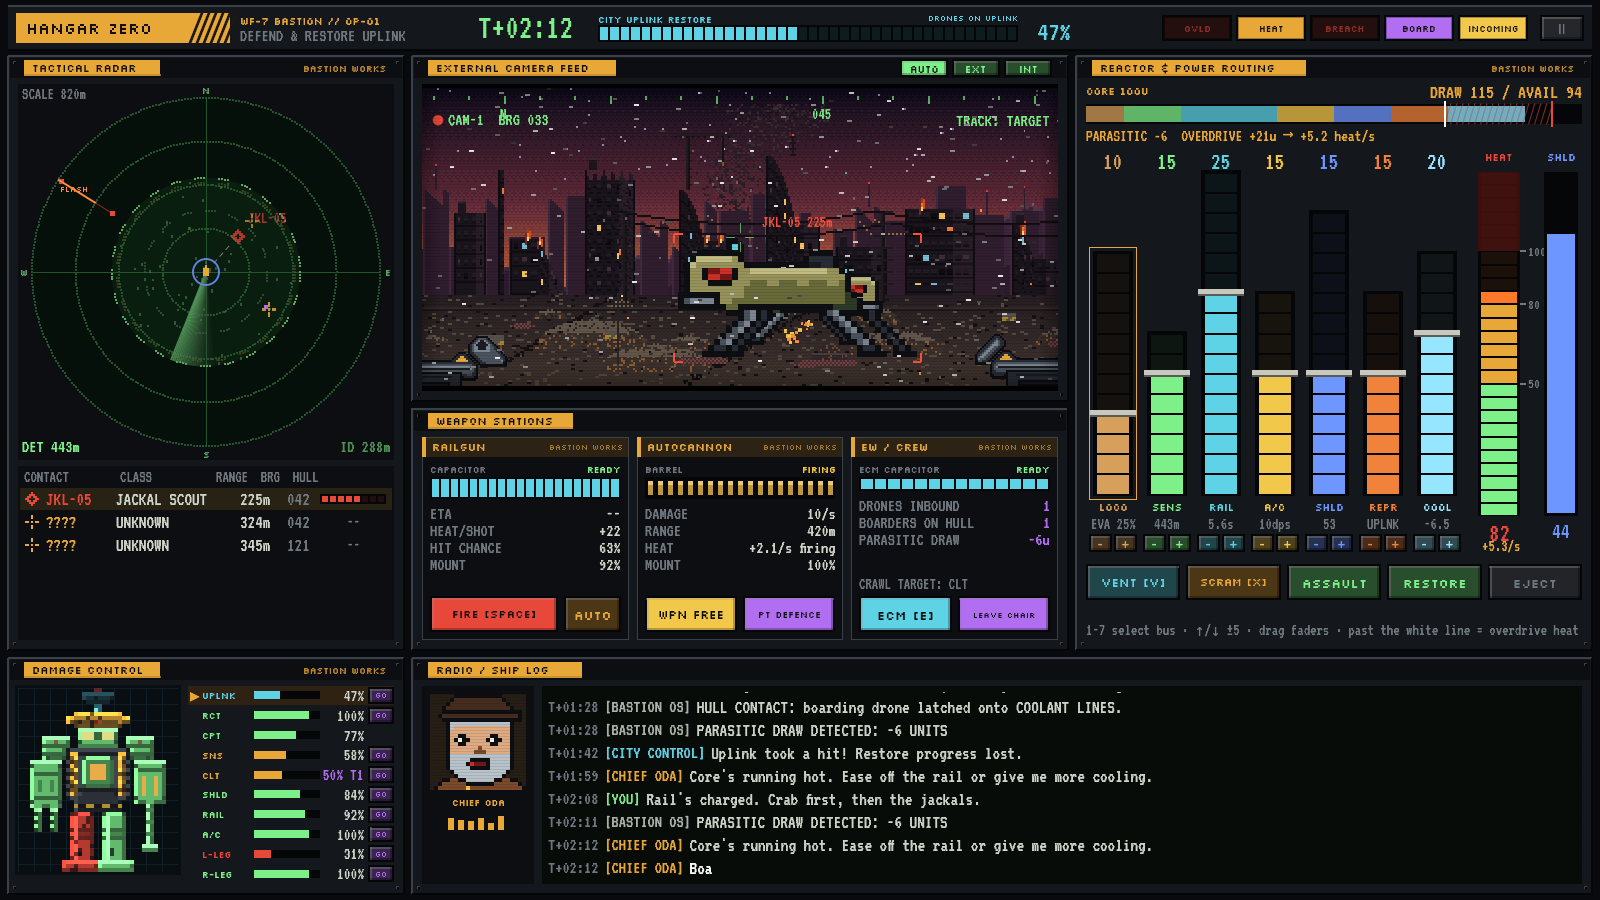
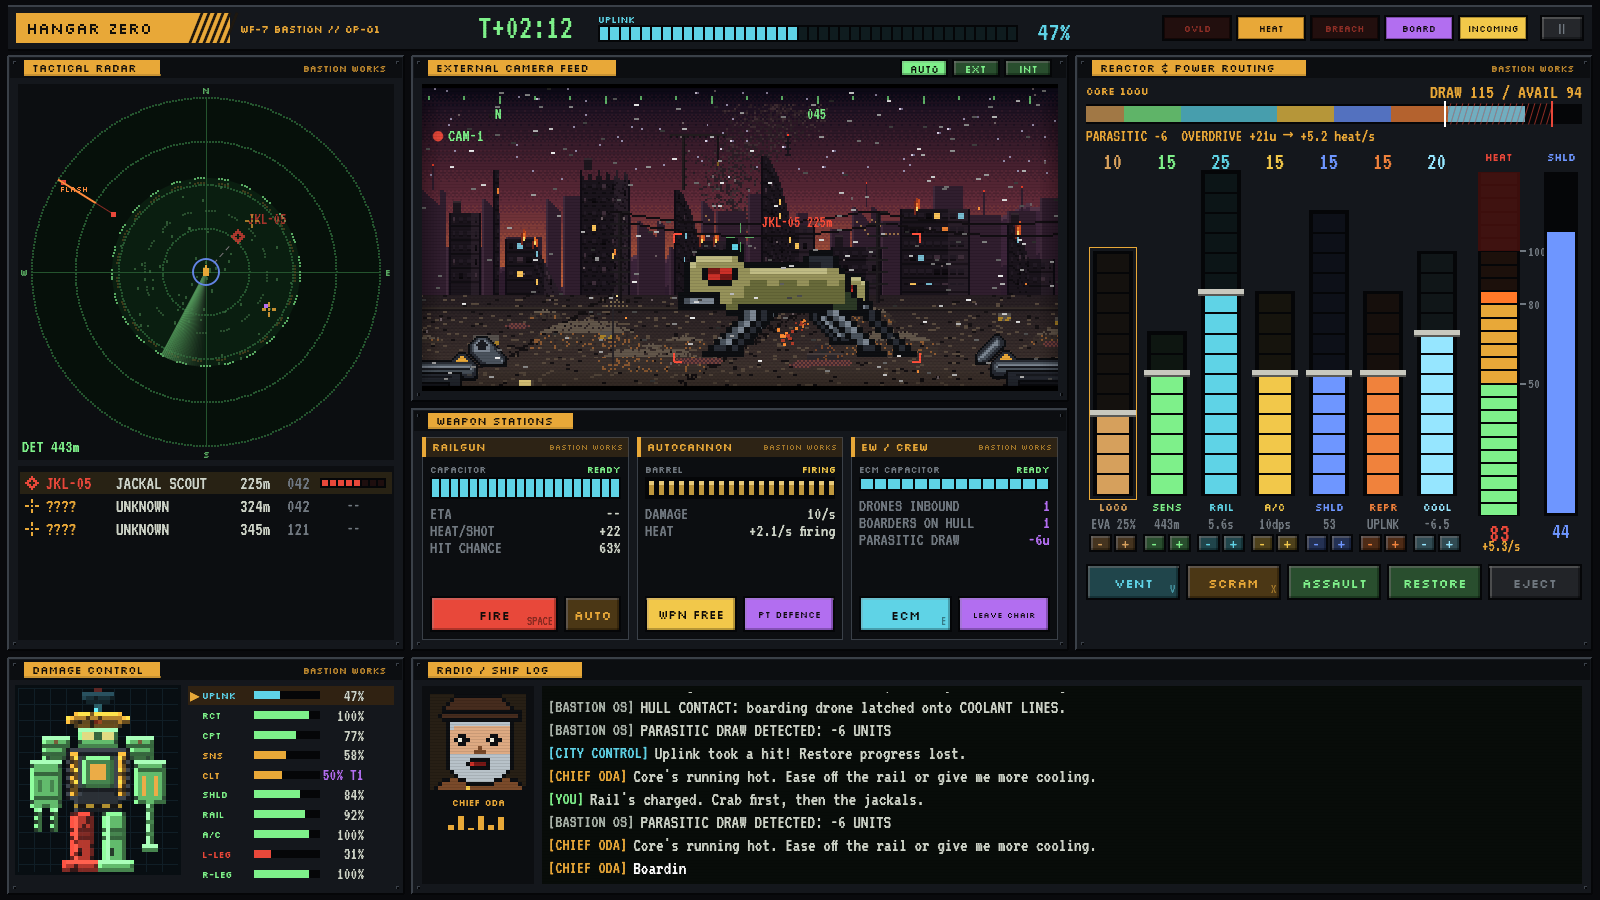
Trim the cockpit to the information that matters
Drop duplicated readouts (bearing, mount health, objective subtitle,
radar scale/ID text, contact header, radio timestamps), move keybindings
into small tags on the buttons and the controls hint into the pause
screen, show hull GO buttons only on hover, and shorten hangar labels.

Claude-Session: https://claude.ai/code/session_0185kqkbtDYzfnnQofExGTRs

diff --git a/src/ui/cockpit.rs b/src/ui/cockpit.rs
@@ -214,8 +214,7 @@ fn top_bar(ui: &mut Ui, rect: Rect, mech: &Mech, mission: &mut Mission, scene: &
         p.line_segment([Pos2::new(x, logo.max.y), Pos2::new(x + 12.0, logo.min.y)], Stroke::new(3.0, Color32::from_rgb(30, 24, 16)));
     }
     text(&p, logo.left_center() + Vec2::new(10.0, 0.0), Align2::LEFT_CENTER, "HANGAR ZERO", pix(16.0), Color32::from_rgb(20, 16, 10));
-    text(&p, logo.right_center() + Vec2::new(10.0, -8.0), Align2::LEFT_CENTER, format!("WF-7 BASTION // OP-{:02}", mission.number), pix(10.0), AMBER);
-    text(&p, logo.right_center() + Vec2::new(10.0, 8.0), Align2::LEFT_CENTER, "DEFEND & RESTORE UPLINK", mono(18.0), DIM);
+    text(&p, logo.right_center() + Vec2::new(10.0, 0.0), Align2::LEFT_CENTER, format!("WF-7 BASTION // OP-{:02}", mission.number), pix(10.0), AMBER);
 
     // Mission clock
     let clock_x = rect.min.x + 470.0;
@@ -223,12 +222,13 @@ fn top_bar(ui: &mut Ui, rect: Rect, mech: &Mech, mission: &mut Mission, scene: &
 
     // Objective bar
     let ob = Rect::from_min_size(Pos2::new(rect.min.x + 590.0, rect.min.y + 8.0), Vec2::new(420.0, 28.0));
-    text(&p, ob.left_top() + Vec2::new(0.0, -1.0), Align2::LEFT_TOP, "CITY UPLINK RESTORE", pix(9.0), CYAN);
+    text(&p, ob.left_top() + Vec2::new(0.0, -1.0), Align2::LEFT_TOP, "UPLINK", pix(9.0), CYAN);
     let bar = Rect::from_min_max(ob.min + Vec2::new(0.0, 11.0), ob.max);
     seg_bar(&p, bar, mech.uplink() / 100.0, 40, CYAN);
     text(&p, Pos2::new(ob.max.x + 8.0, ob.center().y + 4.0), Align2::LEFT_CENTER, format!("{:3.0}%", mech.uplink()), mono(28.0), CYAN);
-    let hint = if mech.repair_target == Section::Uplink { "DRONES ON UPLINK" } else { "DRONES ELSEWHERE" };
-    text(&p, Pos2::new(ob.max.x - 0.0, ob.min.y - 1.0), Align2::RIGHT_TOP, hint, pix(8.0), if mech.repair_target == Section::Uplink { CYAN } else { AMBER });
+    if mech.repair_target != Section::Uplink && mech.uplink() < 100.0 {
+        text(&p, Pos2::new(ob.max.x, ob.min.y - 1.0), Align2::RIGHT_TOP, "REPAIR DRONES ELSEWHERE", pix(8.0), AMBER);
+    }
 
     // Alarm lamps
     let lamps: [(&str, bool, Color32); 5] = [
@@ -450,8 +450,6 @@ fn radar_panel(ui: &mut Ui, rect: Rect, mech: &mut Mech, campaign: &Campaign, sc
     p.rect_filled(Rect::from_center_size(c + Vec2::new(0.0, -5.0), Vec2::new(2.0, 3.0)), 0.0, AMBER);
 
     text(&p, rr.left_bottom() + Vec2::new(4.0, -4.0), Align2::LEFT_BOTTOM, format!("DET {:.0}m", st.radar_range), mono(18.0), GREEN);
-    text(&p, rr.right_bottom() + Vec2::new(-4.0, -4.0), Align2::RIGHT_BOTTOM, format!("ID {:.0}m", st.id_range), mono(18.0), GREEN.gamma_multiply(0.6));
-    text(&p, rr.left_top() + Vec2::new(4.0, 2.0), Align2::LEFT_TOP, format!("SCALE {:.0}m", RADAR_SCALE_M), mono(16.0), DIM);
     if square {
         text(&p, rr.right_top() + Vec2::new(-4.0, 2.0), Align2::RIGHT_TOP, "JACKAL FIRMWARE", mono(16.0), rgb(Maker::Jackal.accent()));
     }
@@ -460,10 +458,9 @@ fn radar_panel(ui: &mut Ui, rect: Rect, mech: &mut Mech, campaign: &Campaign, sc
     let list = Rect::from_min_max(Pos2::new(inner.min.x, rr.max.y + 6.0), inner.max);
     let lp = ui.painter_at(list);
     lp.rect_filled(list, 0.0, PANEL_DARK);
-    text(&lp, list.min + Vec2::new(6.0, 3.0), Align2::LEFT_TOP, "CONTACT        CLASS          RANGE  BRG  HULL", mono(16.0), DIM);
     let mut rows: Vec<&(Entity, Enemy)> = scene.enemies.iter().filter(|(_, e)| e.dist <= st.radar_range).collect();
     rows.sort_by(|a, b| a.1.dist.total_cmp(&b.1.dist));
-    let mut y = list.min.y + 22.0;
+    let mut y = list.min.y + 6.0;
     for (ent, e) in rows.iter().take(6) {
         let row = Rect::from_min_size(Pos2::new(list.min.x + 2.0, y), Vec2::new(list.width() - 4.0, 22.0));
         let sel = mech.target == Some(*ent);
@@ -494,7 +491,7 @@ fn radar_panel(ui: &mut Ui, rect: Rect, mech: &mut Mech, campaign: &Campaign, sc
         y += 23.0;
     }
     if rows.is_empty() {
-        text(&lp, list.center(), Align2::CENTER_CENTER, "NO CONTACTS IN DETECTION RANGE", mono(19.0), DIM);
+        text(&lp, list.center(), Align2::CENTER_CENTER, "NO CONTACTS", mono(19.0), DIM);
     }
 }
 
@@ -714,10 +711,9 @@ fn external_view(p: &egui::Painter, fr: Rect, s: f32, art: &Art, mech: &Mech, fx
         p.line_segment([cc + a, cc + b], Stroke::new(1.0, GREEN.gamma_multiply(0.7)));
     }
     if (scene.t * 1.5).fract() < 0.6 {
-        p.circle_filled(fr.min + Vec2::new(16.0, 32.0), 5.0, RED);
+        p.circle_filled(fr.min + Vec2::new(16.0, 48.0), 5.0, RED);
     }
-    text(p, fr.min + Vec2::new(26.0, 32.0), Align2::LEFT_CENTER, format!("CAM-1  BRG {:03.0}", bearing_deg(bearing)), mono(18.0), GREEN);
-    text(p, fr.right_top() + Vec2::new(-8.0, 24.0), Align2::RIGHT_TOP, if mech.target.is_some() { "TRACK: TARGET" } else { "TRACK: SCAN" }, mono(18.0), GREEN);
+    text(p, fr.min + Vec2::new(26.0, 48.0), Align2::LEFT_CENTER, "CAM-1", mono(18.0), GREEN);
 
     // Damaged sensors / heat
     let sf = mech.frac(Section::Sensors);
@@ -871,7 +867,7 @@ fn interior_view(ui: &mut Ui, p: &egui::Painter, fr: Rect, s: f32, art: &Art, me
         }
     };
     let (pos, status) = match mech.pilot {
-        Pilot::Seat => (floor(&room_rect[&Section::Cockpit]), "PILOT IN CHAIR. CLICK A COMPARTMENT TO CRAWL THERE.".to_string()),
+        Pilot::Seat => (floor(&room_rect[&Section::Cockpit]), "CLICK A COMPARTMENT TO CRAWL THERE".to_string()),
         Pilot::Crawling { to, t, dur } => (path(to, t / dur), format!("CRAWLING TO {} ... {:.1}s", to.name(), dur - t)),
         Pilot::Working { at, t } => {
             let n = scene.boarders_on(at);
@@ -949,7 +945,6 @@ fn weapons_panel(ui: &mut Ui, rect: Rect, mech: &mut Mech, cmds: &mut PilotComma
             ("ETA", eta),
             ("HEAT/SHOT", format!("+{:.0}", 22.0 + campaign.mods.rail_heat)),
             ("HIT CHANCE", if lock { format!("{:.0}%", hitp * 100.0) } else { "--".into() }),
-            ("MOUNT", format!("{:.0}%", mech.frac(Section::Railgun) * 100.0)),
         ] {
             text(&p, Pos2::new(x, y), Align2::LEFT_TOP, k, mono(18.0), DIM);
             text(&p, Pos2::new(r.max.x - 8.0, y), Align2::RIGHT_TOP, v, mono(18.0), TEXT);
@@ -1003,9 +998,7 @@ fn weapons_panel(ui: &mut Ui, rect: Rect, mech: &mut Mech, cmds: &mut PilotComma
         y += 28.0;
         for (k, v) in [
             ("DAMAGE", format!("{:.0}/s", st.ac_dps)),
-            ("RANGE", format!("{:.0}m", AC_RANGE)),
             ("HEAT", format!("+{:.1}/s firing", st.eff[Sys::Autocannon.idx()] * 0.14)),
-            ("MOUNT", format!("{:.0}%", mech.frac(Section::Autocannon) * 100.0)),
         ] {
             text(&p, Pos2::new(x, y), Align2::LEFT_TOP, k, mono(18.0), DIM);
             text(&p, Pos2::new(r.max.x - 8.0, y), Align2::RIGHT_TOP, v, mono(18.0), TEXT);
@@ -1073,7 +1066,6 @@ fn weapons_panel(ui: &mut Ui, rect: Rect, mech: &mut Mech, cmds: &mut PilotComma
                 cmds.return_to_seat = true;
             }
         }
-        text(&p, Pos2::new(x, by - 4.0), Align2::LEFT_BOTTOM, if seated { format!("CRAWL TARGET: {}", dest.short()) } else { "PILOT AWAY".into() }, mono(16.0), DIM);
     }
 }
 
@@ -1145,7 +1137,7 @@ fn power_panel(ui: &mut Ui, rect: Rect, mech: &mut Mech, cmds: &mut PilotCommand
     } else if over {
         note.push_str(&format!("OVERDRIVE +{:.0}u → +{:.1} heat/s", st.draw - st.available, (st.draw - st.available) * OVERDRIVE_HEAT));
     }
-    text(&p, bar.left_bottom() + Vec2::new(0.0, 3.0), Align2::LEFT_TOP, if note.is_empty() { "BUS NOMINAL".to_string() } else { note }, mono(17.0), if over || st.parasitic > 0.0 { AMBER } else { DIM });
+    text(&p, bar.left_bottom() + Vec2::new(0.0, 3.0), Align2::LEFT_TOP, note, mono(17.0), if over || st.parasitic > 0.0 { AMBER } else { DIM });
 
     // --- Faders ---------------------------------------------------------------------------
     let fz = Rect::from_min_max(Pos2::new(inner.min.x, bus.max.y + 6.0), Pos2::new(inner.max.x - 118.0, inner.max.y - 84.0));
@@ -1276,8 +1268,6 @@ fn power_panel(ui: &mut Ui, rect: Rect, mech: &mut Mech, cmds: &mut PilotCommand
     if pbutton(ui, b(4, 36.0, 0.0), "EJECT", RED, eject_on, eject_on && (scene.t * 3.0).fract() < 0.5).clicked() {
         cmds.eject = true;
     }
-    let hint = "1-7 select bus · ↑/↓ ±5 · drag faders · past the white line = overdrive heat";
-    text(&p, Pos2::new(er.min.x, er.max.y - 2.0), Align2::LEFT_BOTTOM, hint, mono(16.0), DIM);
     if let Some(t) = mech.overload {
         let big = Rect::from_center_size(fz.center(), Vec2::new(fz.width() - 20.0, 70.0));
         let pp = ui.painter();
@@ -1452,7 +1442,7 @@ fn hull_panel(ui: &mut Ui, rect: Rect, art: &Art, mech: &mut Mech, cmds: &mut Pi
             tag = format!("{tag} T{nb}");
         }
         text(pp, Pos2::new(row.max.x - 30.0, row.center().y), Align2::RIGHT_CENTER, tag, mono(17.0), if nb > 0 { PURPLE } else { TEXT });
-        if sec != Section::Cockpit {
+        if sec != Section::Cockpit && resp.hovered() {
             let go = Rect::from_min_size(Pos2::new(row.max.x - 26.0, row.min.y + 1.0), Vec2::new(26.0, rh - 3.0));
             if pbutton(ui, go, "GO", PURPLE, mech.pilot.in_seat(), false).on_hover_text("Leave the chair and crawl here").clicked() {
                 cmds.crawl_to = Some(sec);
@@ -1520,7 +1510,6 @@ fn radio_panel(ui: &mut Ui, rect: Rect, art: &Art, radio: &Radio, animate: bool)
                 }
                 ui.horizontal_wrapped(|ui| {
                     ui.spacing_mut().item_spacing.x = 6.0;
-                    ui.label(egui::RichText::new(format!("T+{}", fmt_clock(m.time))).color(DIM).size(18.0));
                     ui.label(egui::RichText::new(format!("[{name}]")).color(col).size(18.0));
                     ui.label(egui::RichText::new(body).color(if i + 1 == n { Color32::WHITE } else { TEXT }).size(19.0));
                 });
@@ -1623,10 +1612,23 @@ fn overlays(ctx: &egui::Context, art: &Art, mech: &Mech, mission: &mut Mission, 
         return;
     }
     if mission.paused {
-        let mut ui = modal(ctx, "pause", Vec2::new(420.0, 160.0), DIM);
+        let mut ui = modal(ctx, "pause", Vec2::new(520.0, 300.0), DIM);
         let r = ui.max_rect();
         let p = ui.painter().clone();
         text(&p, Pos2::new(r.center().x, r.min.y + 4.0), Align2::CENTER_TOP, "PAUSED", pix(24.0), AMBER);
+        let mut y = r.min.y + 52.0;
+        for (k, v) in [
+            ("SPACE", "fire railgun"),
+            ("TAB / click", "select target"),
+            ("1-7, ↑ ↓", "select a bus, ±5 power (shift ±1)"),
+            ("V  X  E", "vent · scram · ECM burst"),
+            ("click hull", "send repair drones there"),
+            ("P / ESC", "pause"),
+        ] {
+            text(&p, Pos2::new(r.min.x + 130.0, y), Align2::RIGHT_TOP, k, mono(21.0), AMBER);
+            text(&p, Pos2::new(r.min.x + 146.0, y), Align2::LEFT_TOP, v, mono(21.0), TEXT);
+            y += 24.0;
+        }
         let br = Rect::from_min_size(Pos2::new(r.center().x - 100.0, r.max.y - 44.0), Vec2::new(200.0, 40.0));
         if pbutton(&mut ui, br, "RESUME [P]", AMBER, true, true).clicked() {
             mission.paused = false;

diff --git a/src/ui/hangar.rs b/src/ui/hangar.rs
@@ -141,7 +141,7 @@ pub fn hangar_ui(
     // --- Bottom: salvage choices --------------------------------------------------------------
     let cards_r = Rect::from_min_max(Pos2::new(r.min.x + 20.0, r.max.y - 300.0), Pos2::new(r.max.x - 20.0, r.max.y - 16.0));
     p.rect_filled(cards_r.expand(4.0), 0.0, Color32::from_black_alpha(150));
-    text(&p, cards_r.left_top() + Vec2::new(4.0, -26.0), Align2::LEFT_TOP, "SALVAGE YARD — CRANE CAPACITY: 1 PART", pix(12.0), AMBER);
+    text(&p, cards_r.left_top() + Vec2::new(4.0, -26.0), Align2::LEFT_TOP, "SALVAGE — CHOOSE ONE", pix(12.0), AMBER);
     let n = campaign.salvage.len().max(1) as f32;
     let gap = 12.0;
     let cw = (cards_r.width() - gap * (n - 1.0)) / n;
@@ -172,7 +172,7 @@ pub fn hangar_ui(
             ui.add(egui::Label::new(egui::RichText::new(format!("- {}", info.cons)).size(19.0).color(Color32::from_rgb(240, 120, 100))).wrap());
             if !info.maker.original() {
                 ui.add_space(2.0);
-                ui.label(egui::RichText::new("ORIGINAL FRAME -11%").size(16.0).color(AMBER));
+                ui.label(egui::RichText::new("−11% ORIGINAL").size(16.0).color(AMBER));
             }
         });
         let br = Rect::from_min_size(Pos2::new(cr.min.x + 10.0, cr.max.y - 44.0), Vec2::new(cw - 20.0, 34.0));

diff --git a/src/ui/mod.rs b/src/ui/mod.rs
@@ -203,10 +203,20 @@ pub fn pbutton(ui: &mut Ui, rect: Rect, label: &str, color: Color32, enabled: bo
         color.gamma_multiply(1.0)
     };
     let off = if down { Vec2::new(1.0, 1.0) } else { Vec2::ZERO };
+    // "FIRE [SPACE]" paints as FIRE with a small key tag in the corner.
+    let (label, key) = match label.split_once(" [") {
+        Some((l, k)) => (l, Some(k.trim_end_matches(']'))),
+        None => (label, None),
+    };
     let base: f32 = if rect.height() > 30.0 { 13.0 } else { 10.0 };
     // Silkscreen is wide: shrink long labels to fit the button.
     let size = base.min((rect.width() - 12.0) / (label.chars().count() as f32 * 0.86)).max(7.0);
     text(p, rect.center() + off, Align2::CENTER_CENTER, label, pix(size), tc);
+    if let Some(k) = key {
+        let tag = rect.right_bottom() - Vec2::new(5.0, 4.0);
+        let kc = if enabled { tc.gamma_multiply(0.7) } else { DIM };
+        text(p, tag + off, Align2::RIGHT_BOTTOM, k, mono(13.0), kc);
+    }
     resp
 }
 
